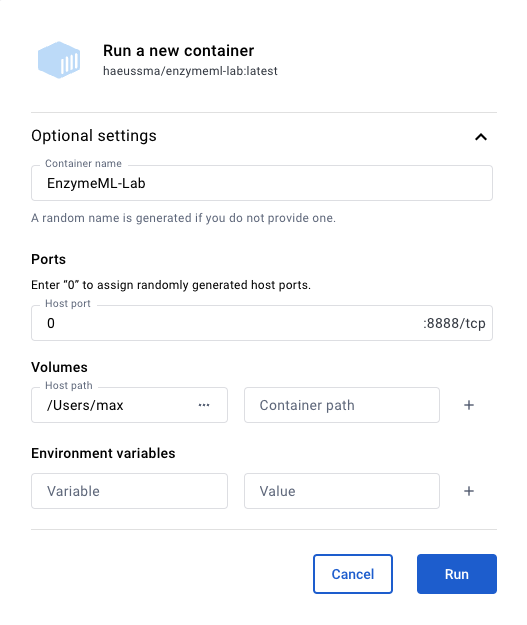
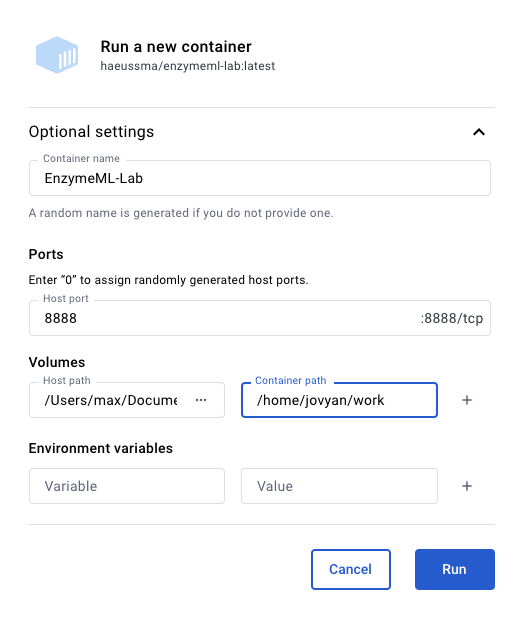
updated sections

diff --git a/docs/jupyterlab_installation.md b/docs/jupyterlab_installation.md
@@ -2,56 +2,60 @@
 icon: simple/jupyter
 ---
 
-## Setting up EnzymeML Lab
+# Setting up JupyterLab
 
-Jupyter Notebook is a web-based interactive computing environment that allows you to create and share documents that contain live code, equations, visualizations, and narrative text. It is a great tool for data analysis and visualization. 
+!!! info
+    __What is JupyterLab?__  
+    JupyterLab is a web-based editor for writing and executing Jupyter Notebooks. Additionally, it allows you to see the file system, terminal, and other tools in the same window. This makes it a powerful tool for data analysis and visualization.
+
+    __How does it work?__  
+    Here we will install JupyterLab using Docker. This will allow you to run JupyterLab on your local machine without having to install Python, Jupyter, and the necessary Python tools to work with your data and the tools developed in this course.
+    Essentially, the Docker hosts a local website on your computer that runs JupyterLab. This website is accessible from your web browser as long as the container is running. Each time you start the container, the latest versions of the EnzymeML tools will be installed.
+
+## Initial Setup
 
 1. Install [Docker]
   [Docker]: docker_installation.md
 
-2. Open the Docker Desktop application search for `haeussma/enzymeml-lab` in the upper search bar and click on `RUN`.
+2. Open the Docker Desktop application search for `haeussma/enzymeml-lab` in the upper search bar and click on `Pull`.
 
-    ![Docker Desktop](../figs/get_image.png)
-
-    The container will be downloaded and a configuration window will be opened.
+    ![Docker Desktop](../figs/get_image.png){{: style="height:400px"}}
     
+3. Navigate to the `Images` section in the Docker Desktop application and click on :material-play: next to the `haeussma/enzymeml-lab` image.
+    A `Run a new container` window pops up. Click on `Optional settings` to configure the container with the following settings:
 
-3. Configure the container in the `Run a new container` window as follows in the `Optional settings` section.
-    In the `Volumes` section set the `Host path` to the folder, which should be accessible from JupyterLab. If in doubt specify your home directory.
+    `Container name`
+    :   Container name: `EnzymeML-Lab`
 
-    ![Docker Desktop](../figs/configure_container.png)
+    `Ports`
+    :    Host port: `8888`
 
-
-4. within the `Logs` of the container, you will find a token, which is needed to access the Jupyter Notebook. 
-
-    ```bash
-    2024-02-25 17:44:54 [I 2024-02-25 16:44:54.937 ServerApp]     http://127.0.0.1:8888/lab token=a9a39e2f219edac28f66cf2c88a9954978f78626e58e03f6
-    2024-02-25 17:44:54 [I 2024-02-25 16:44:54.937 ServerApp] Use Control-C to stop this server and shut down all kernels (twice to skip confirmation).
-    2024-02-25 17:44:54 [C 2024-02-25 16:44:54.939 ServerApp] 
-    2024-02-25 17:44:54     
-    2024-02-25 17:44:54     To access the server, open this file in a browser:
-    2024-02-25 17:44:54         file:///home/jovyan/.local/share/jupyter/runtime/jpserver-7-open.html
-    2024-02-25 17:44:54     Or copy and paste one of these URLs:
-    2024-02-25 17:44:54         http://e2376db8149d:8888/lab?token=a9a39e2f219edac28f66cf2c88a9954978f78626e58e03f6
-    2024-02-25 17:44:54         http://127.0.0.1:8888/lab?token=a9a39e2f219edac28f66cf2c88a9954978f78626e58e03f6
-    2024-02-25 17:44:55 [I 2024-02-25 16:44:55.984 ServerApp] Skipped non-installed server(s): bash-language-server, dockerfile-language-server-nodejs, javascript-typescript-langserver, jedi-language-server, julia-language-server, pyright, python-language-server, python-lsp-server, r-languageserver, sql-language-server, texlab, typescript-language-server, unified-language-server, vscode-css-languageserver-bin, vscode-html-languageserver-bin, vscode-json-languageserver-bin, yaml-language-server
-    ```
-
-    In the example above, the token is `a9a39e2f219edac28f66cf2c88a9954978f78626e58e03f6`.
-
-5. Click on the link in the header of the container to open the JupyterLab in your default web browser.
-
-    ![Docker Desktop](../figs/start_container.png)
+    `Volumes` 
+    !!! info inline end "Why specify a volume?"
+        The volume is used to define what directory of your local machine is visible to the container. Without this configuration, the container would not be able to access your local files. It is advised to make the directory in which you store your data for analysis.
 
 
-6. Enter the token from the logs in the field `Token` and click on `Log in`.
+    :   Host path: `{SELECT YOUR WORKING DIRECTORY}`       
+    :    Container path: `/home/jovyan/work`
 
-7. You are now in the JupyterLab environment your local files can be accessed via the `work` folder.
+    ??? example "Example"
+        ![Docker Desktop](../figs/configure_container.png){: style="height:400px"}
+
+
+    Then, click on `Run`. The initial configuration process for the container might take a few seconds up to two minutes.
+
+
+5. Click on the link `8888:8888` in the header of the container. This will open a new tab in your browser, showing the JupyterLab environment.
+    
+    ![Docker Desktop](../figs/initial_start.png){{: style="height:400px"}}
+
+
+7. 🎉 You are now in the JupyterLab environment. Your local files can be accessed via the `work` folder.
 
 ## Stopping the Container
 
-To stop the container, click on the `Stop` icon in the `Docker Desktop` application. You will find it in the `Containers` section. Running containers are symbolized by a green container icon.
+To start the container, navigate to the `Containers` section in the Docker Desktop application and click on the :material-stop: button next to the `EnzymeML-Lab` container. Running containers are symbolized by a green container icon. You can close the browser window whenever you want. The container will keep running in the background unless you stop it in the Docker Desktop app.
 
 ## Restarting the Container
 
-To restart the container, click on the `Start` icon in the `Docker Desktop` application. You will find it in the `Containers` section. Stopped containers are symbolized by a red container icon. The klick on the blue port number next to the start icon. You may need to copy the access token from the logs again. You find the logs by clicking on the container name in the `Containers` section. 
+To start the container, navigate to the `Containers` section in the Docker Desktop application and click on the :material-play: button next to the `EnzymeML-Lab` container. Then click on the blue port number `8888:8888` next to the start button.

diff --git a/docs/getting_started.md b/docs/getting_started.md
@@ -11,7 +11,7 @@ Visit the [Docker website](https://docs.docker.com/get-docker/) and follow the i
 
     Docker is a way to run software in a container. This means that the software is isolated from the rest of your system. This is useful because it means that you can run software without having to install it on your system.
 
-If you decide to configure your computing environment yourself and have a way to execute.
+If you decide to configure your computing environment yourself you can install [ChromatoPy from Github](https://github.com/FAIRChemistry/chromatopy).
 
 ## 2. Install EnzymeML Lab
 
@@ -19,10 +19,10 @@ To work with Jupyter Notebooks, we will use the JupyterLab, which is a web-based
 
 To install the EnzymeML Lab for the first time, follow the [instructions](jupyterlab_installation.md). This essentially starts a Docker container, which JupyterLab is running, and the developed tools of this course are preinstalled.
 
-## 3. Load a demo project
+## 3. Load the demo project
 
 Download the [demo project repository](https://github.com/FAIRChemistry/chromatography-example) from GitHub and store it at the desired location on your local machine. Click on the green "Code" button and select "Download ZIP". Finally, extract the ZIP file.
 
 ## 4. Open the project in JupyterLab
 
-Go back to the browser in which JupyterLab is running and navigate to the folder of the demo project. You can now open the notebook `shimadzu-example.ipynb` or `single-chromatogram.ipynb` example and follow the instructions in the notebooks.
+Go back to the browser in which JupyterLab is running and navigate to the folder of the demo project. Make sure, that the file is within the directory you defined to be visible to the container. You can now open the notebook `shimadzu-example.ipynb` or `single-chromatogram.ipynb` example and follow the instructions in the notebooks.

diff --git a/docs/docker_installation.md b/docs/docker_installation.md
@@ -2,6 +2,9 @@
 icon: simple/docker
 ---
 
-Docker is a way to run software in a container. This means that the software is isolated from the rest of your system. This is useful because it means that you can run software without having to install it on your system. This is particularly useful for running software that has a lot of dependencies or that you only need to run occasionally. In this way, Docker is a bit like a virtual machine and enables running software without configuring the system to run it.
+Docker is a way to run software in a container. This means that the software is isolated from the rest of your system. This simplifies the installation of computing environments since everything is preconfigured in the container. Docker is comparable to running a virtual machine, but instead of installing a whole operating system, it only installs the software you need.
+
+
+Here we will use Docker to install JupyterLab, a popular web-based environment for Jupyter notebooks, code, and data. This will allow you to run JupyterLab on your local machine without having to install Python, Jupyter, and the necessary Python tools to work with your data and EnzymeML.
 
 To install Docker, follow the instructions for your operating system on the [Docker website](https://docs.docker.com/get-docker/).
